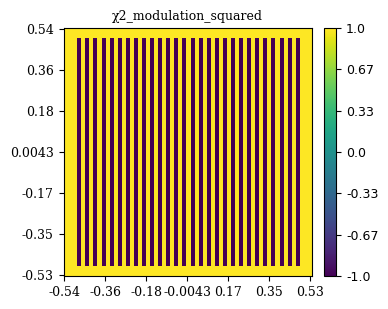
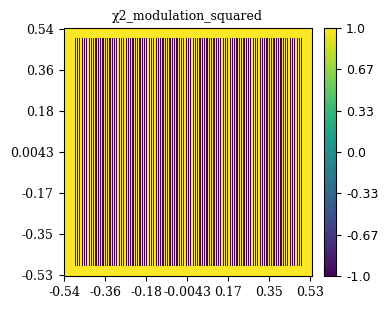
新增 新的 3D 一步  计算方案，但经验证 仍然是 不对的欸

Changed region(s): [[0.1856, 0.1165, 0.7732, 0.8738]]

diff --git a/fun_nonlinear.py b/fun_nonlinear.py
@@ -113,29 +113,29 @@ def G2_z_modulation_NLAST(k1, k2, Gz,
     k2_z_shift, mesh_k2_x_k2_y_shift = Cal_kz(U1_0.shape[0], U1_0.shape[1], k2)
     
     # kiiz_shift = k1 + k2_z_shift + Gz # 草，倍频是加 k1_z_shift，和频才是加 k2_z_shift（而非 k3_z_shift）
-    kiiz_shift = k1 + k1_z_shift + Gz
+    kiizQ_shift = k1 + k1_z_shift + Gz
 
-    #%%
+    #%% == version 1（更自洽）
     U1_z_Squared_modulated = fft2(
-        ifft2(fft2(modulation) / (kiiz_shift ** 2 - k2 ** 2)) * Uz_AST(U1_0, k1, iz) ** 2)
+        ifft2(fft2(modulation) / (kiizQ_shift ** 2 - k2 ** 2)) * Uz_AST(U1_0, k1, iz) ** 2)
     # print(np.min(np.abs((kiiz_shift ** 2 - k2 ** 2))))
     U1_0_Squared_modulated = fft2(
-        ifft2(fft2(modulation) / (kiiz_shift ** 2 - k2 ** 2)) * U1_0 ** 2)
+        ifft2(fft2(modulation) / (kiizQ_shift ** 2 - k2 ** 2)) * U1_0 ** 2)
     
-    #%%
+    #%% == version 1.1
     # U1_z_Squared_modulated = fft2(
     #     ifft2(fft2(modulation) / (kiiz_shift ** 2 - k2_z_shift ** 2)) * Uz_AST(U1_0, k1, iz) ** 2)
     # U1_0_Squared_modulated = fft2(
     #     ifft2(fft2(modulation) / (kiiz_shift ** 2 - k2_z_shift ** 2)) * U1_0 ** 2)
     
-    #%%
+    #%% == version 2（少近似）
     # U1_z_Squared_modulated = fft2(
     #     modulation * ifft2(fft2(Uz_AST(U1_0, k1, iz) ** 2) / (kiiz_shift ** 2 - k2_z_shift ** 2)))
     
     # U1_0_Squared_modulated = fft2(
     #     modulation * ifft2(fft2(U1_0 ** 2) / (kiiz_shift ** 2 - k2_z_shift ** 2)))
     
-    #%%
+    #%% == version 2.1
     # U1_z_Squared_modulated = fft2(
     #     modulation * ifft2(fft2(Uz_AST(U1_0, k1, iz) ** 2) / (kiiz_shift ** 2 - k2 ** 2)))
     
@@ -143,7 +143,7 @@ def G2_z_modulation_NLAST(k1, k2, Gz,
     #     modulation * ifft2(fft2(U1_0 ** 2) / (kiiz_shift ** 2 - k2 ** 2)))
 
     # 不加 负号，U 的相位 会差个 π，我也不知道 为什么
-    G2_z_shift = - const * (U1_z_Squared_modulated * math.e ** (Gz * iz * 1j) \
+    G2_z_shift = - const * (U1_z_Squared_modulated * math.e ** (Gz * iz * 1j) 
                            -  U1_0_Squared_modulated * math.e ** (k2_z_shift * iz * 1j))
     
     # G2_z_shift = const * U1_z_Squared_modulated * math.e ** (Gz * iz * 1j)
@@ -151,6 +151,65 @@ def G2_z_modulation_NLAST(k1, k2, Gz,
     
     # G2_z_shift = - const * U1_z_Squared_modulated * math.e ** (Gz * iz * 1j)
     # G2_z_shift = const * U1_0_Squared_modulated * math.e ** (k2_z_shift * iz * 1j)
+    
+    return G2_z_shift
+
+def G2_z_modulation_3D_NLAST(k1, k2, Tz_unit, 
+                             modulation, U1_0, iz, const, ):
+    
+    k1_z_shift, mesh_k1_x_k1_y_shift = Cal_kz(U1_0.shape[0], U1_0.shape[1], k1)
+    k2_z_shift, mesh_k2_x_k2_y_shift = Cal_kz(U1_0.shape[0], U1_0.shape[1], k2)
+    
+    kiiz_shift = k1 + k1_z_shift
+    dkiiz_shift = kiiz_shift - k2
+    dz = Tz_unit / 2
+    J = int(iz / dz - 1)
+    # J = iz / dz - 1
+    # J = iz / dz
+    
+    # print(J, (-1)**J)
+        
+    #%% version 1（更自洽）
+    
+    U1_z_Squared_modulated_1 = fft2(
+        ifft2(fft2(modulation) / (kiiz_shift ** 2 - k2 ** 2) / (1 + math.e ** (- dkiiz_shift * dz * 1j))) \
+            * Uz_AST(U1_0, k1, iz) ** 2)
+    
+    U1_z_Squared_modulated_2 = fft2(
+        ifft2(fft2(modulation) / (kiiz_shift ** 2 - k2 ** 2) / (1 + math.e ** (kiiz_shift * dz * 1j))) \
+            * Uz_AST(U1_0, k1, iz) ** 2)
+    
+    U1_0_Squared_modulated = fft2(
+        ifft2(fft2(modulation) / (kiiz_shift ** 2 - k2 ** 2) 
+              * (1 / (1 + math.e ** (- dkiiz_shift * dz * 1j)) - 1 / (1 + math.e ** (kiiz_shift * dz * 1j)))) \
+            * U1_0 ** 2)
+    
+    G2_z_shift = - const * (U1_z_Squared_modulated_1 * (-1) ** J 
+                            -  U1_z_Squared_modulated_2 * (-1) ** J * math.e ** (k2_z_shift * iz * 1j)
+                            + U1_0_Squared_modulated * math.e ** (k2_z_shift * iz * 1j))
+        
+    #%% version 2（少近似）
+    
+    # U1_z_Squared_modulated_1 = fft2(
+    #     ifft2(fft2(modulation) / (kiiz_shift ** 2 - k2 ** 2) / (1 + math.e ** (- dkiiz_shift * dz * 1j))) \
+    #         * Uz_AST(U1_0, k1, iz) ** 2)
+    
+    # U1_z_Squared_modulated_2 = fft2(
+    #     ifft2(fft2(modulation) / (kiiz_shift ** 2 - k2 ** 2)) \
+    #         * Uz_AST(U1_0, k1, iz) ** 2 / (1 + math.e ** (kiiz_shift * dz * 1j)))
+    
+    # U1_0_Squared_modulated_1 = fft2(
+    #     ifft2(fft2(modulation) / (kiiz_shift ** 2 - k2 ** 2) / (1 + math.e ** (- dkiiz_shift * dz * 1j))) \
+    #         * U1_0 ** 2)
+    
+    # U1_0_Squared_modulated_2 = fft2(
+    #     ifft2(fft2(modulation) / (kiiz_shift ** 2 - k2 ** 2)) \
+    #         * U1_0 ** 2 / (1 + math.e ** (kiiz_shift * dz * 1j)))
+    
+    # G2_z_shift = - const * (U1_z_Squared_modulated_1 * (-1) ** J 
+    #                         -  U1_z_Squared_modulated_2 * (-1) ** J * math.e ** (k2_z_shift * iz * 1j)
+    #                         + U1_0_Squared_modulated_1 * math.e ** (k2_z_shift * iz * 1j) 
+    #                         -  U1_0_Squared_modulated_2 * math.e ** (k2_z_shift * iz * 1j))
     
     return G2_z_shift
 

diff --git a/test == b_3_NLA_evolve.py b/test == b_3_NLA_evolve.py
@@ -17,7 +17,7 @@ from fun_array_Transform import Rotate_180, Roll_xy
 from fun_plot import plot_1d, plot_2d, plot_3d_XYz, plot_3d_XYZ
 from fun_pump import pump_LG
 from fun_linear import Cal_n, Cal_kz
-from fun_nonlinear import Eikz, C_m, Cal_lc_SHG, Cal_GxGyGz, Cal_dk_z_Q_shift_SHG, Cal_roll_xy, G2_z_modulation_NLAST, \
+from fun_nonlinear import Eikz, C_m, Cal_lc_SHG, Cal_GxGyGz, Cal_dk_z_Q_shift_SHG, Cal_roll_xy, G2_z_modulation_NLAST, G2_z_modulation_3D_NLAST, \
     G2_z_NLAST, G2_z_NLAST_false, Info_find_contours_SHG
 from fun_thread import noop, my_thread
 from fun_CGH import structure_chi2_Generate_2D
@@ -40,7 +40,7 @@ is_H_l, is_H_theta, is_H_random_phase = 0, 0, 0
 # %%
 U1_0_NonZero_size = 0.9  # Unit: mm 不包含边框，图片 的 实际尺寸
 w0 = 0.1  # Unit: mm 束腰（z = 0 处）
-z0 = 10  # Unit: mm 传播距离
+z0 = 2.25  # Unit: mm 传播距离
 # size_modulate = 1e-3 # Unit: mm χ2 调制区域 的 横向尺寸，即 公式中的 d
 # %%
 lam1 = 1.064  # Unit: um 基波波长
@@ -48,7 +48,7 @@ is_air_pump, is_air, T = 0, 0, 25  # is_air = 0, 1, 2 分别表示 LN, 空气, K
 # %%
 deff = 30  # pm / V
 Tx, Ty, Tz = 10, 50, 7.004  # Unit: um
-mx, my, mz = 1, 0, 1
+mx, my, mz = 1, 0, 0
 # 倒空间：右, 下 = +, +
 is_fft = 1
 fft_mode = 0
@@ -83,7 +83,7 @@ is_energy = 0
 vmax, vmin = 1, 0
 #%%
 is_energy_evolution_on = 1
-is_stored = 1
+is_stored = 0
 sheets_stored_num = 10
 sample = 2
 # %%
@@ -357,11 +357,13 @@ def Cal_G2_zm_shift(for_th2, fors_num2, *arg, ):
         else:
         
             if fft_mode == 0:
+                
+                Const = (k2 / size_PerPixel / n2) ** 2 * deff * 1e-12  # pm / V 转换成 m / V
         
                 if is_sum_Gm == 0:
                     names['G2_z' + str(for_th2) + '_shift'] = G2_z_modulation_NLAST(k1, k2, Gz,
-                                                                                    modulation_squared, U1_0, izj[for_th2], const, )
-                else:
+                                                                                    modulation_squared, U1_0, izj[for_th2], Const, )
+                elif is_sum_Gm == 1:
                     # G2_z0_shift = np.zeros((I2_x, I2_y), dtype=np.complex128())
                     
                     def Cal_G2_z0_shift_Gm(for_th, fors_num, *arg, ):
@@ -388,6 +390,12 @@ def Cal_G2_zm_shift(for_th2, fors_num2, *arg, ):
                     my_thread(10, 2 * mG + 1,
                               Cal_G2_z0_shift_Gm, Cal_G2_z0_shift, noop, 
                               is_ordered=1, is_print=is_print, )
+                else:
+                    
+                    Tz_unit = (Tz / 1000) / size_PerPixel
+                    
+                    names['G2_z' + str(for_th2) + '_shift'] = G2_z_modulation_3D_NLAST(k1, k2, Tz_unit,
+                                                                                       modulation_squared, U1_0, izj[for_th2], Const, )
         
             elif fft_mode == 1:
                 

diff --git a/Test == B_3_NLA_SSI_structure_chi2.py b/Test == B_3_NLA_SSI_structure_chi2.py
@@ -54,7 +54,7 @@ is_H_l_Structure, is_H_theta_Structure, is_H_random_phase_Structure = 0, 0, 0
 #%%
 U1_0_NonZero_size = 0.9 # Unit: mm 不包含边框，图片 的 实际尺寸
 w0 = 0.1 # Unit: mm 束腰（z = 0 处）
-L0_Crystal = 10 # Unit: mm 晶体长度
+L0_Crystal = 2.25 # Unit: mm 晶体长度
 z0_structure_frontface_expect = 0 # Unit: mm 结构 前端面，距离 晶体 前端面 的 距离
 deff_structure_length_expect = 3 # Unit: mm 调制区域 z 向长度（类似 z）
 sheets_stored_num = 10 # 储存片数 （不包含 最末：因为 最末，作为结果 已经单独 呈现了）；每一步 储存的 实际上不是 g_z，而是 g_z+dz
@@ -66,7 +66,7 @@ X, Y = 0, 0 # Unit: mm 切片 中心点 平移 矢量（逆着 z 正向看去，
 # size_modulate = 1e-3 # Unit: mm χ2 调制区域 的 横向尺寸，即 公式中的 d
 is_bulk = 0 # 是否 不读取 结构，1 为 不读取，即 均一晶体；0 为 读取结构
 is_no_backgroud = 0 # 1 -1 调制，改为 0 -2 调制
-is_stored = 1 # 如果要储存中间结果，则不能多线程，只能单线程
+is_stored = 0 # 如果要储存中间结果，则不能多线程，只能单线程
 is_show_structure_face = 0 # 如果要显示 结构 前后端面 的 场分布，就打开这个
 is_energy_evolution_on = 1 # 储存 能量 随 z 演化 的 曲线
 #%%
@@ -74,11 +74,11 @@ lam1 = 1.064 # Unit: um 基波波长
 is_air_pump, is_air, T = 0, 0, 25 # is_air = 0, 1, 2 分别表示 LN, 空气, KTP；T 表示 温度
 #%%
 deff = 30 # pm / V
-Tx, Ty, Tz = 10, 20, 7.004 # Unit: um "2*lc"，测试： 0 度 - 20.155, 20, 17.885 、 -2 度 ： 6.633, 20, 18.437 、-3 度 ： 4.968, 20, 19.219
+Tx, Ty, Tz = 10, 20, 117.004 # Unit: um "2*lc"，测试： 0 度 - 20.155, 20, 17.885 、 -2 度 ： 6.633, 20, 18.437 、-3 度 ： 4.968, 20, 19.219
 mx, my, mz = 1, 0, 1
 # 倒空间：右, 下 = +, +
 is_stripe = 0
-is_NLAST = 0
+is_NLAST = 1
 # %%
 # 生成横向结构
 Duty_Cycle_x = 0.5

diff --git a/Test == a_to_B_3_NLA_SSI.py b/Test == a_to_B_3_NLA_SSI.py
@@ -254,8 +254,8 @@ a_to_B_3_NLA_SSI(U1_name_Structure = "",
                  is_phase_only = 0, 
                  #%%
                  z_pump = 0, 
-                 is_LG = 0, is_Gauss = 0, is_OAM = 0, 
-                 l = 0, p = 0, 
+                 is_LG = 1, is_Gauss = 1, is_OAM = 1, 
+                 l = 1, p = 0, 
                  theta_x = 0, theta_y = 0,
                  # %%
                  is_random_phase = 0, 
@@ -275,8 +275,8 @@ a_to_B_3_NLA_SSI(U1_name_Structure = "",
                  #%%
                  lam1 = 1.064, is_air_pump = 0, is_air = 0, T = 25, 
                  deff = 30, 
-                 Tx = 35, Ty = 20, Tz = 7.004, 
-                 mx = 1, my = 0, mz = 1,
+                 Tx = 10, Ty = 20, Tz = 7.004, 
+                 mx = 1, my = 0, mz = 0,
                  is_stripe = 0, is_NLAST = 1, 
                  #%%
                  is_save = 1, is_save_txt = 0, dpi = 100, 
